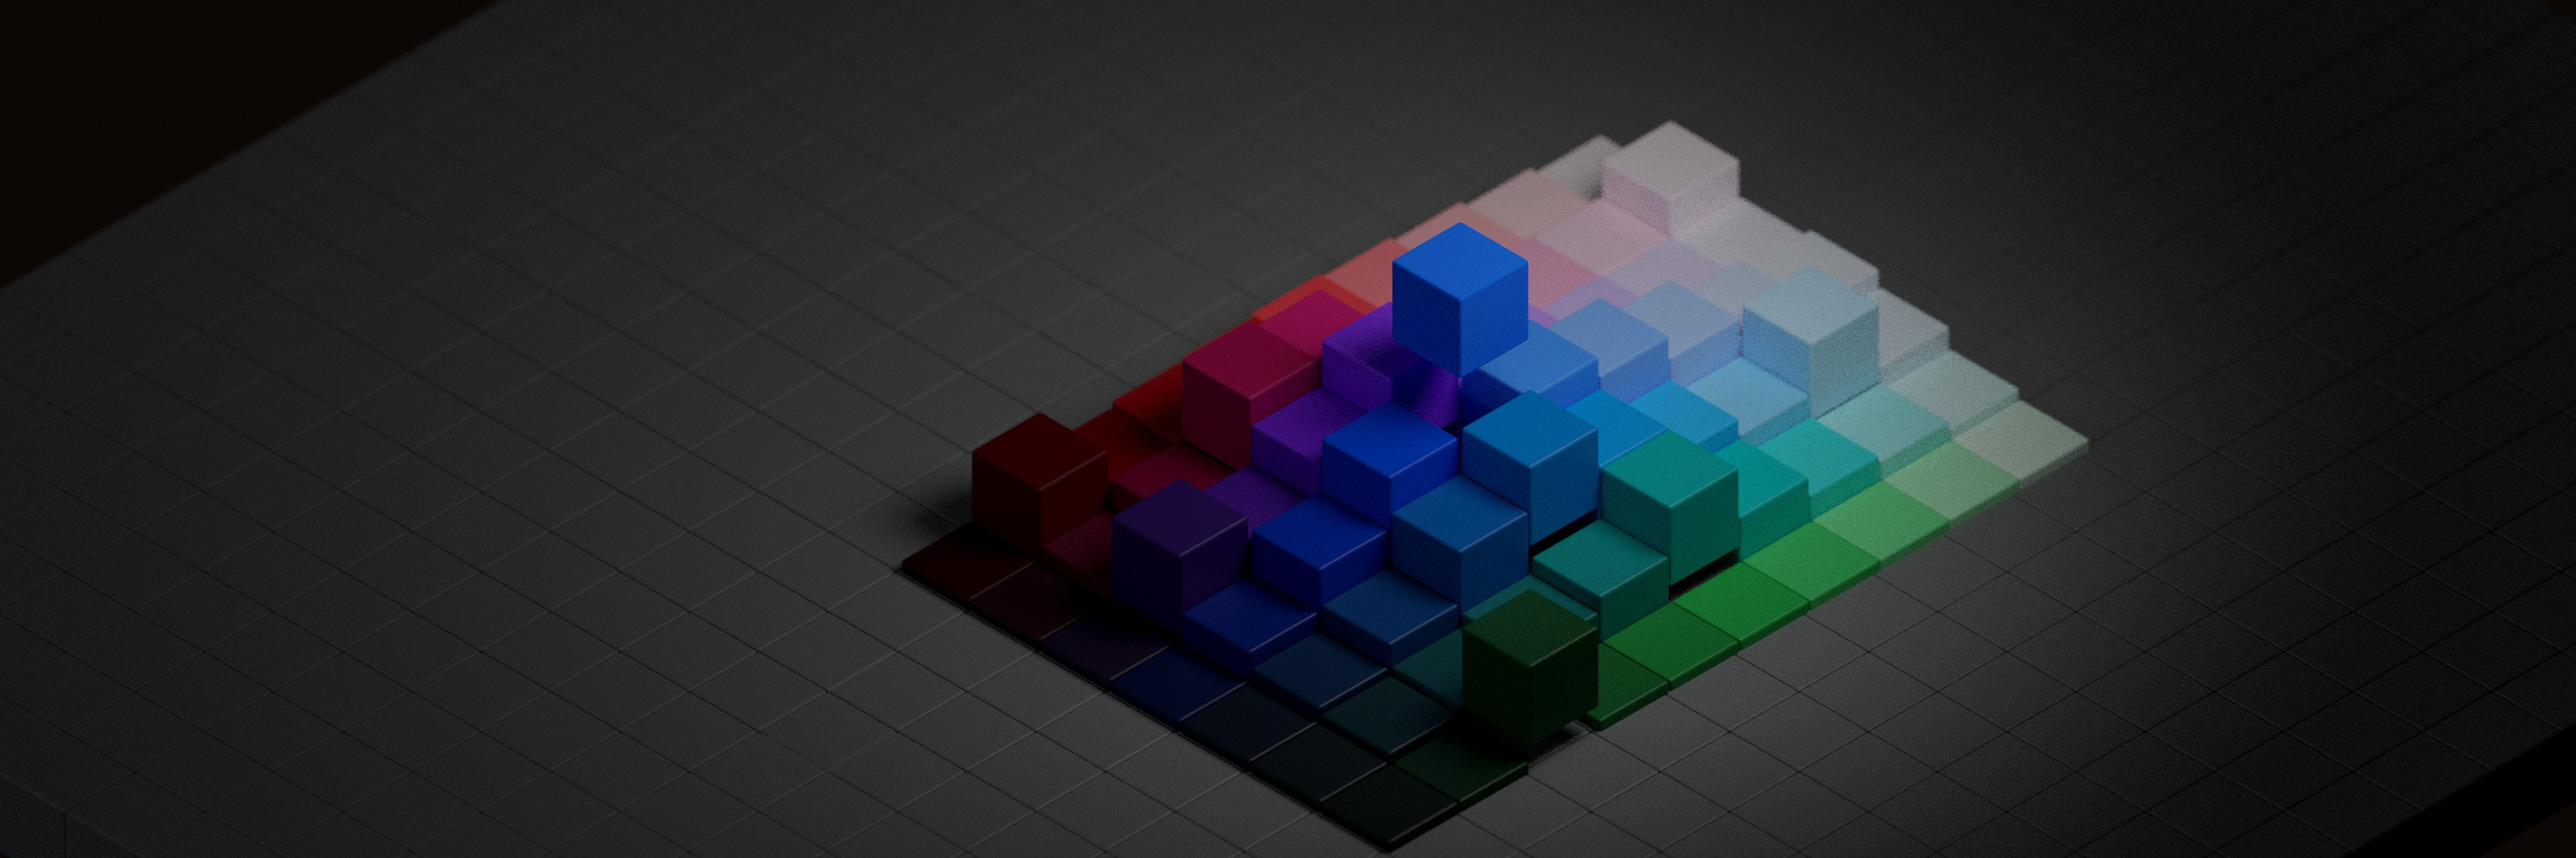
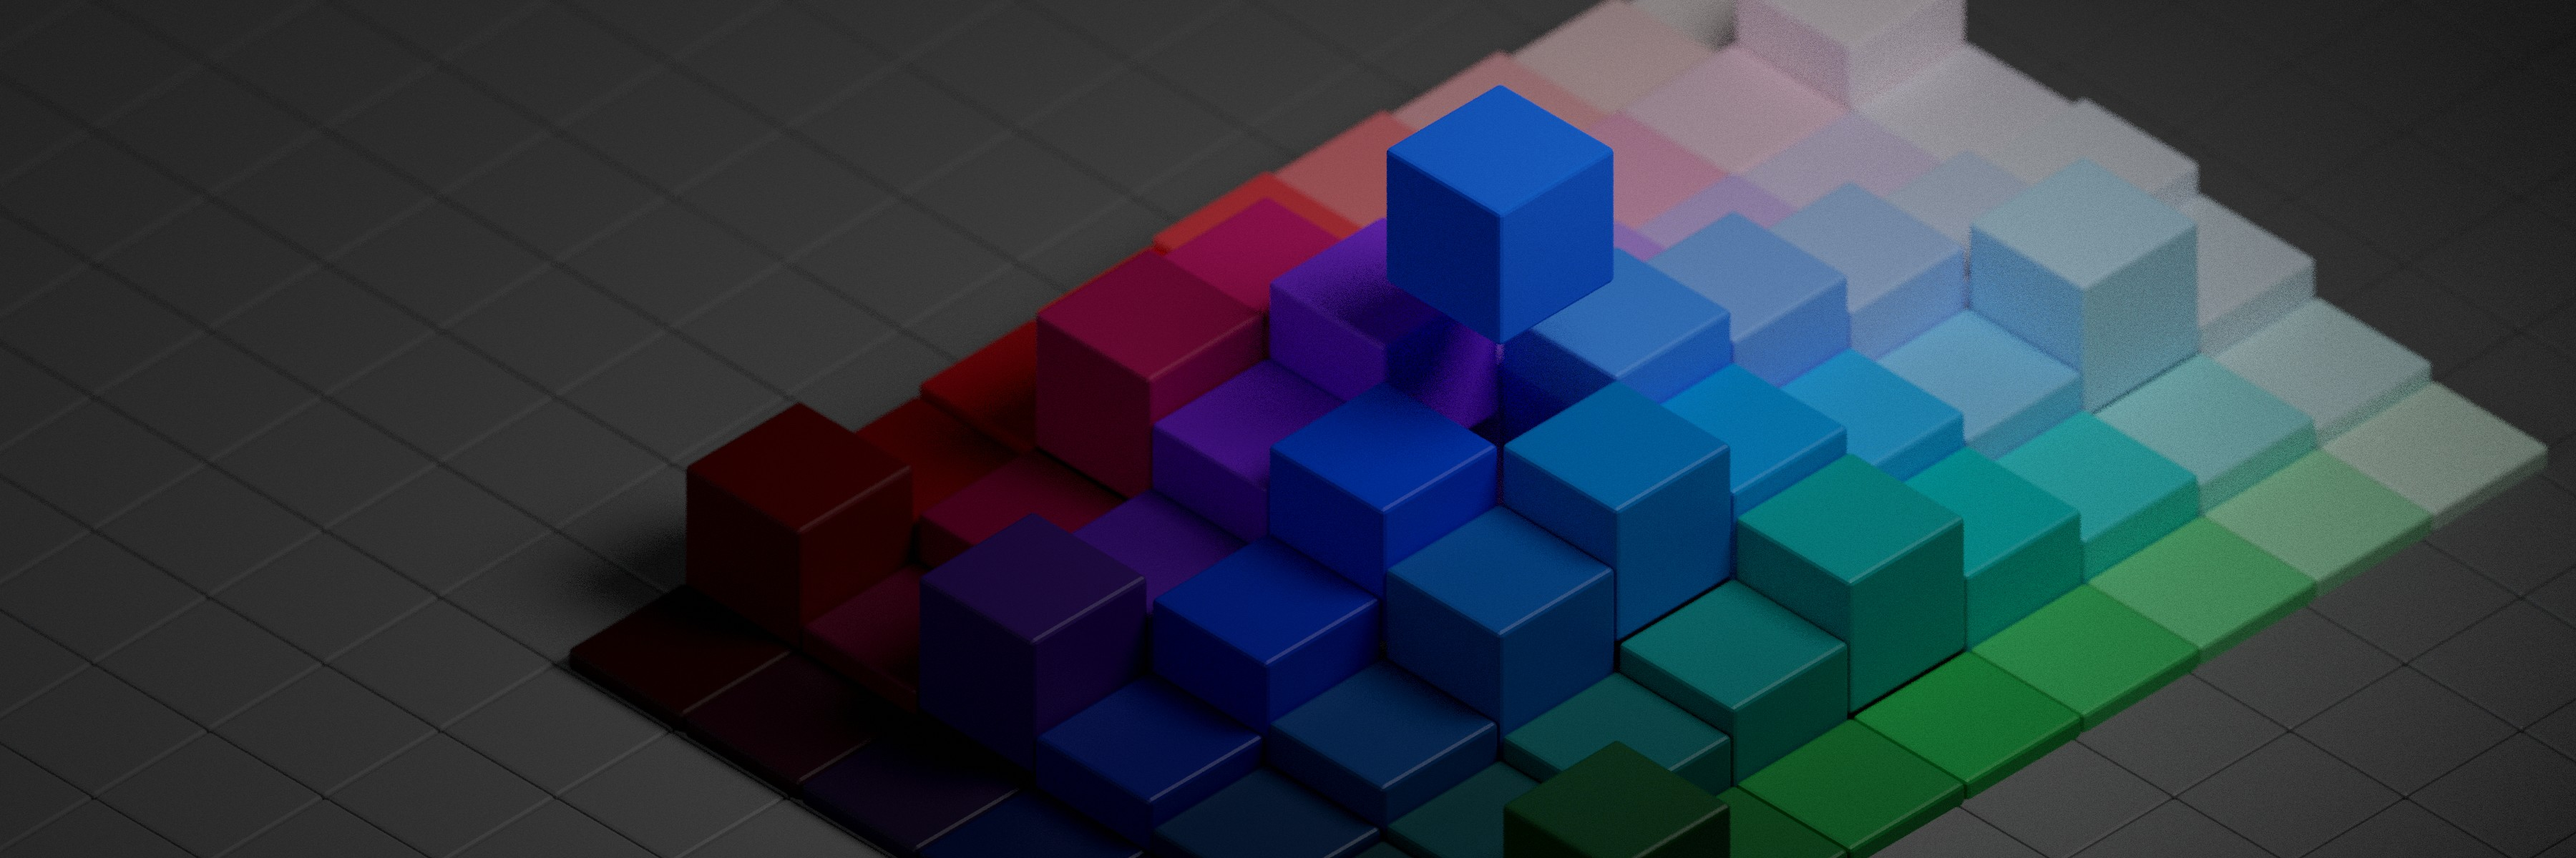
- lead psace update

diff --git a/src/gatsby-theme-carbon/templates/EventTemplate.js b/src/gatsby-theme-carbon/templates/EventTemplate.js
@@ -11,7 +11,7 @@ import NextPrevious from 'gatsby-theme-carbon/src/components/NextPrevious';
 import PageTabs from 'gatsby-theme-carbon/src/components/PageTabs';
 import Main from 'gatsby-theme-carbon/src/components/Main';
 
-import mobile from './../../pages/events/summit-2020/images/lead-space--mobile.png';
+import mobile from './../../pages/events/summit-2020/images/lead-space--mobile-4.jpg';
 import desktop from './../../pages/events/summit-2020/images/lead-space--desktop-4.jpg'
 
 const bgImages = [mobile,desktop];

diff --git a/src/gatsby-theme-carbon/components/PageHeaderForEvents.js b/src/gatsby-theme-carbon/components/PageHeaderForEvents.js
@@ -46,7 +46,7 @@ const PageHeaderForEvents = ({ title, tabs = [], backgroundImages = [] }) => {
       style={{
         backgroundImage,
         backgroundSize: 'cover',
-        backgroundPosition: 'center center',
+        backgroundPosition: 'center top',
         backgroundRepeat: 'no-repeat',
         marginLeft: isDesktop ? '256px' : '0',
         '--height': '24rem',
